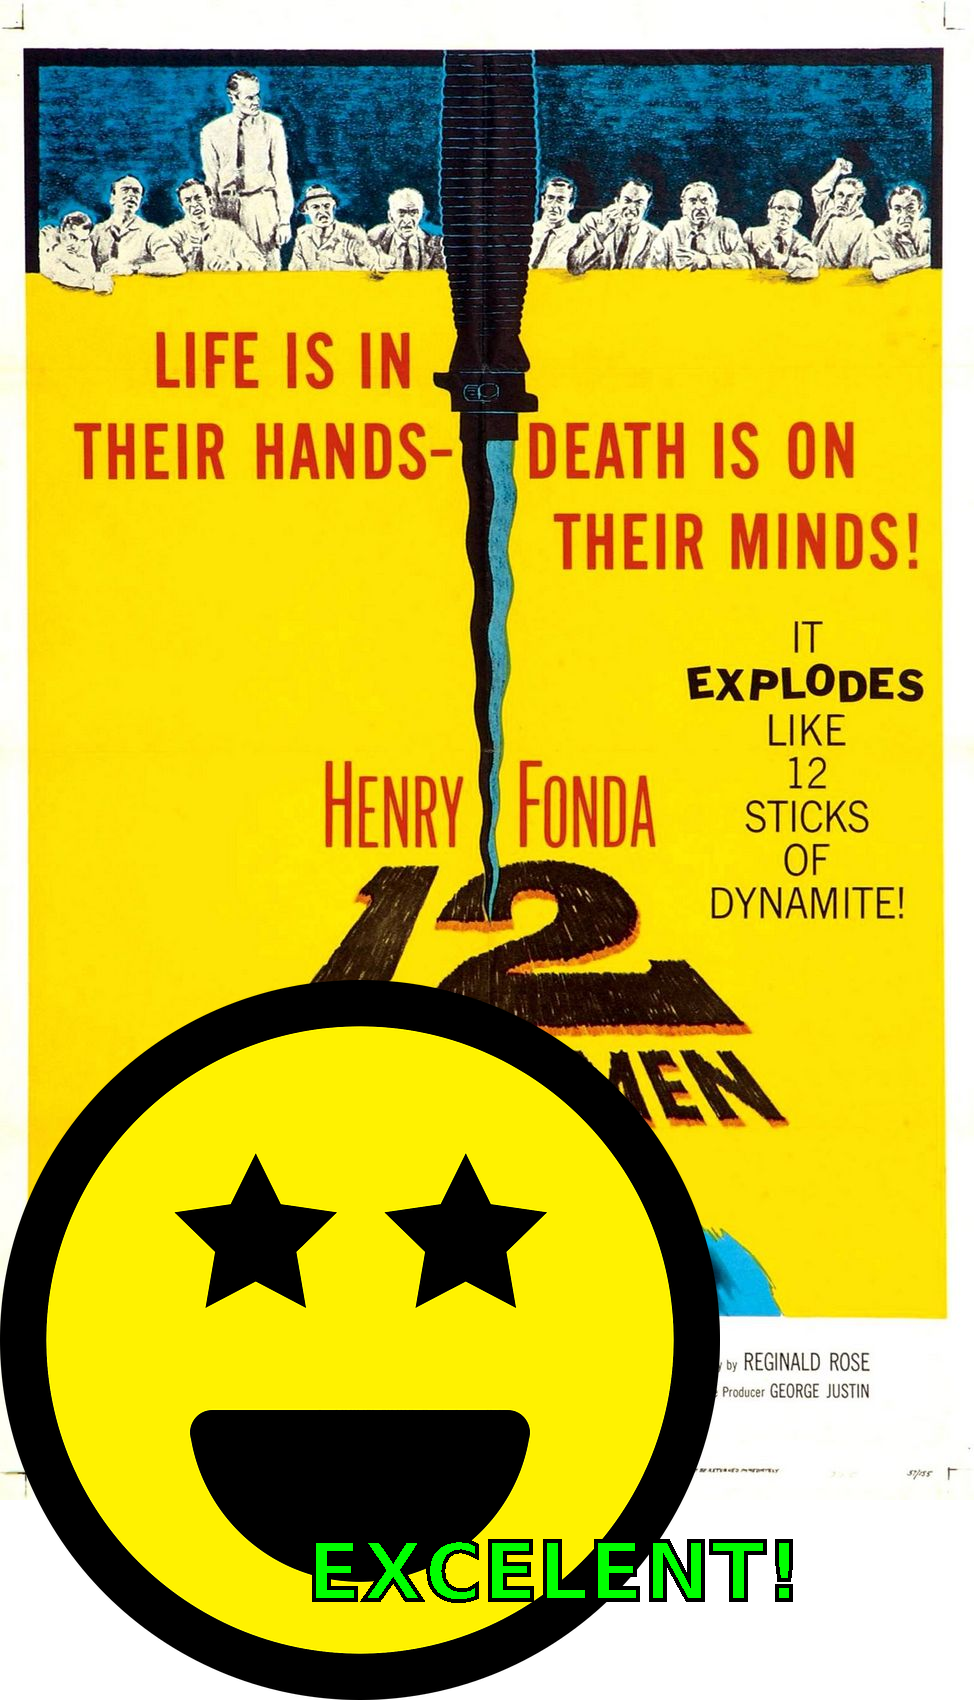
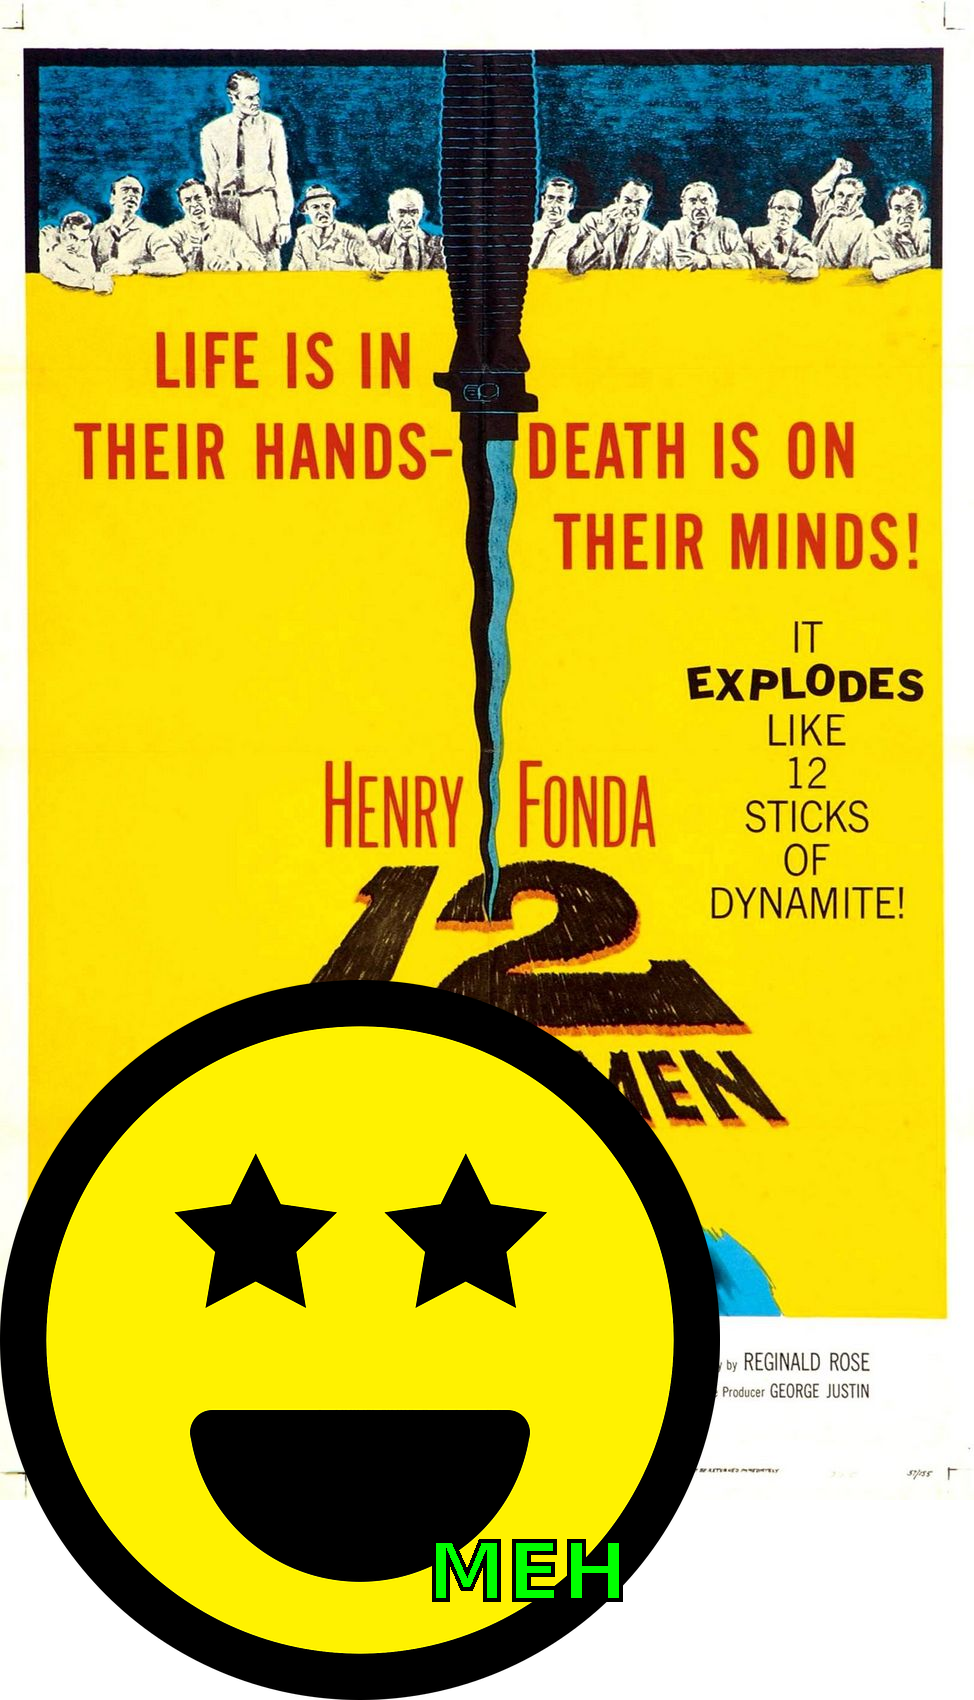
aula 3 record

Changed region(s): [[0.308, 0.9041, 0.8316, 0.9665]]

diff --git a/src/App.java b/src/App.java
@@ -29,15 +29,15 @@ public class App {
 
         //ClientHttp CLASS ////////////////////////////////////////////
         var http = new ClientHttp();
-//        String json = http.searchData(urlIMDB);
-        String json = http.searchData(urlNASA);
+        String json = http.searchData(urlIMDB);
+//        String json = http.searchData(urlNASA);
 
 
         //extract data Content CLASS NASA ///////////////////////////////////////////////////////////////////////////
-        ContentExtractorNASA extractor = new ContentExtractorNASA();
+//        ContentExtractorNASA extractor = new ContentExtractorNASA();
 
         //extract data Content CLASS IMDB ///////////////////////////////////////////////////////////////////////////
-//        ContentExtractorIMDB extractor = new ContentExtractorIMDB();
+        ContentExtractorIMDB extractor = new ContentExtractorIMDB();
 
         //create content list
         List<Content> contentsList = extractor.extractContent(json);
@@ -73,6 +73,7 @@ public class App {
 
 //                Content content = contentsList.get(i);
 
+
             String title = content.title();
             String fileName = title.substring(0, 3) + ".png";//IMDB
 //            String fileName = content.get("title").substring(0, 7) + ".png";//IMDB
@@ -88,7 +89,11 @@ public class App {
 //                devImage = new FileInputStream("my_images/bad.png");
 //            }
 
+            if (extractor.getClass().equals(ContentExtractorIMDB.class)) {
 
+                comment = extractor.rate(1);
+
+            }
             InputStream inputStream = new URL(content.imageUrl()).openStream();
 
             System.out.println(title);

diff --git a/src/ContentExtractorIMDB.java b/src/ContentExtractorIMDB.java
@@ -1,3 +1,4 @@
+import java.io.FileInputStream;
 import java.util.ArrayList;
 import java.util.List;
 import java.util.Map;
@@ -25,5 +26,17 @@ public class ContentExtractorIMDB implements ContentExtractor {
         }
 
         return contentsList;
+    }
+
+//    public int rate()
+
+    public String rate(int rate) {
+        if (rate >= 8) {
+            return "EXCELENT!";
+        } else {
+            return "MEH";
+        }
+
+
     }
 }
